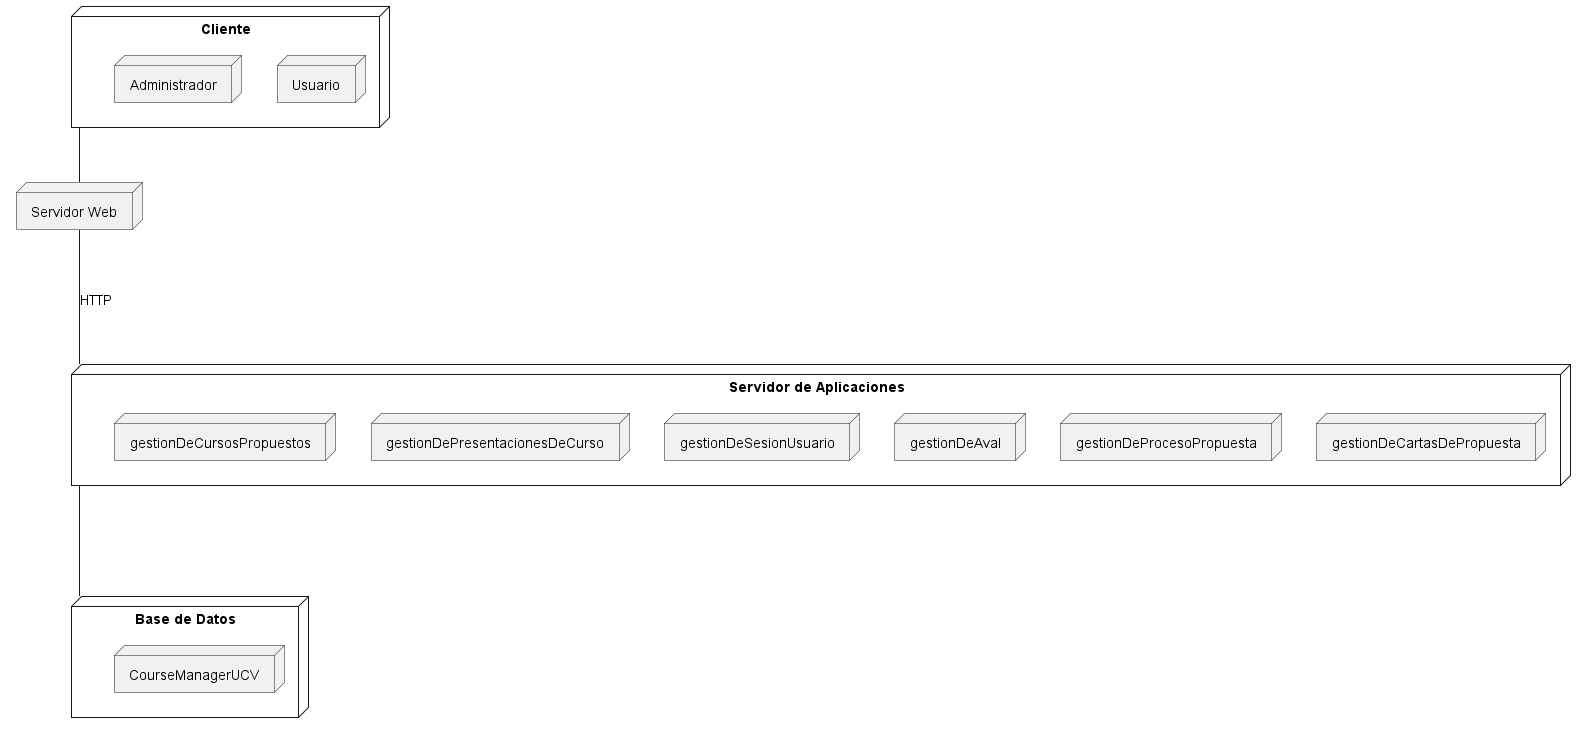
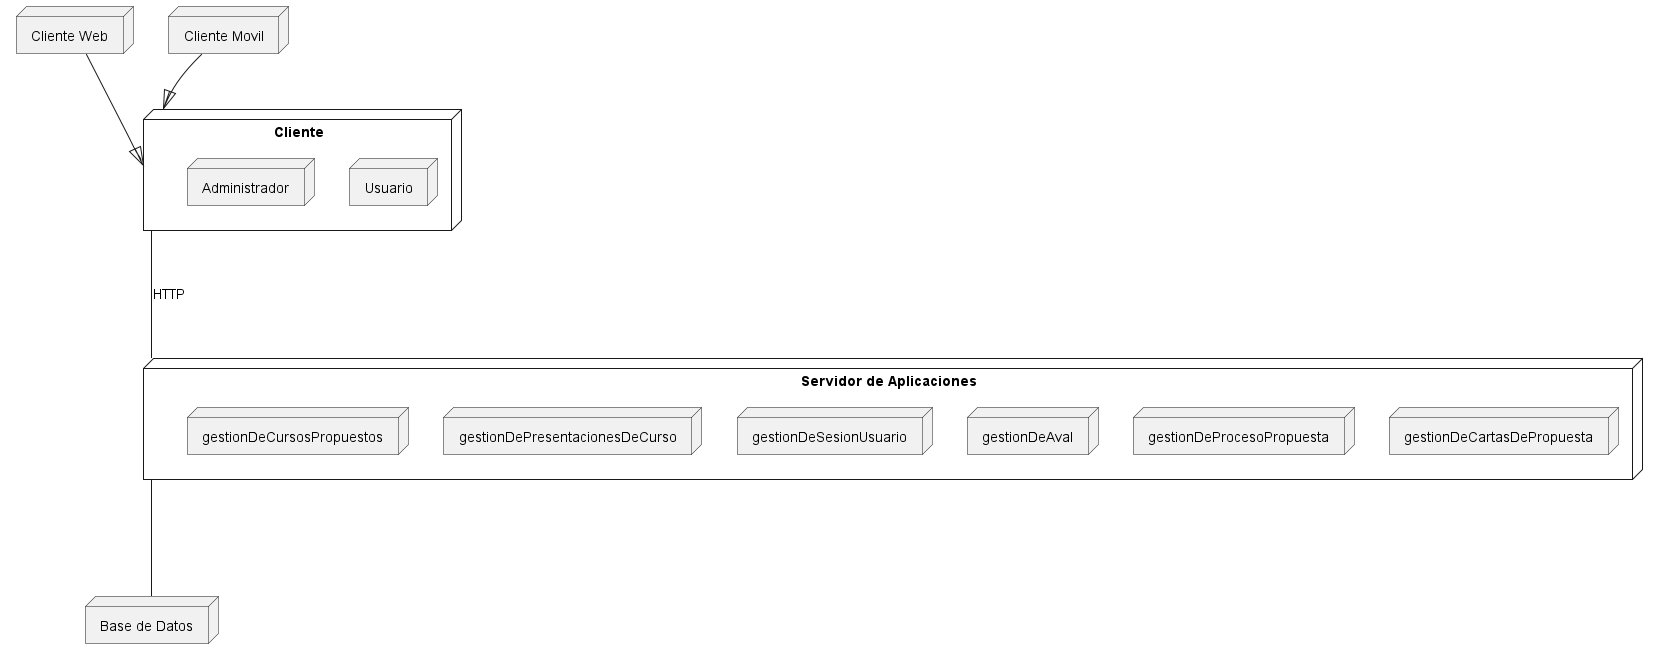
Modificacion diagrama de paquetes y despliegue 2707

diff --git a/README.md b/README.md
@@ -24,8 +24,9 @@
 ![DisciplinaDeRequisitosEntrega2](docs/scenariosView/DisciplinaDeRequisitos/Entrega2.pdf)
 
 ## Disciplina de análisis
-![DiagramaDePaquetes](docs/scenariosView/DisciplinaDeAnalisis/DiagramaDePaquetes.png)
+![DiagramaDePaquetes](docs/scenariosView/DisciplinaDeAnalisis/DiagramaDePaquetes.png) #modificación para bajar acoplamiento 2707 
 ![DisciplinaDeAnalisisEntrega3](docs/scenariosView/DisciplinaDeAnalisis/Entrega3.pdf)
 
 ## Disciplina de diseño
+![DiagramaDeDespliegue](docs/scenariosView/DisciplinaDeDisenio/DiagramaDeDespliegue.png) #modificación debido a nombre Servidor web 2707 
 ![DisciplinaDeDiseñoEntrega4](docs/scenariosView/DisciplinaDeDisenio/Entrega4.pdf)
